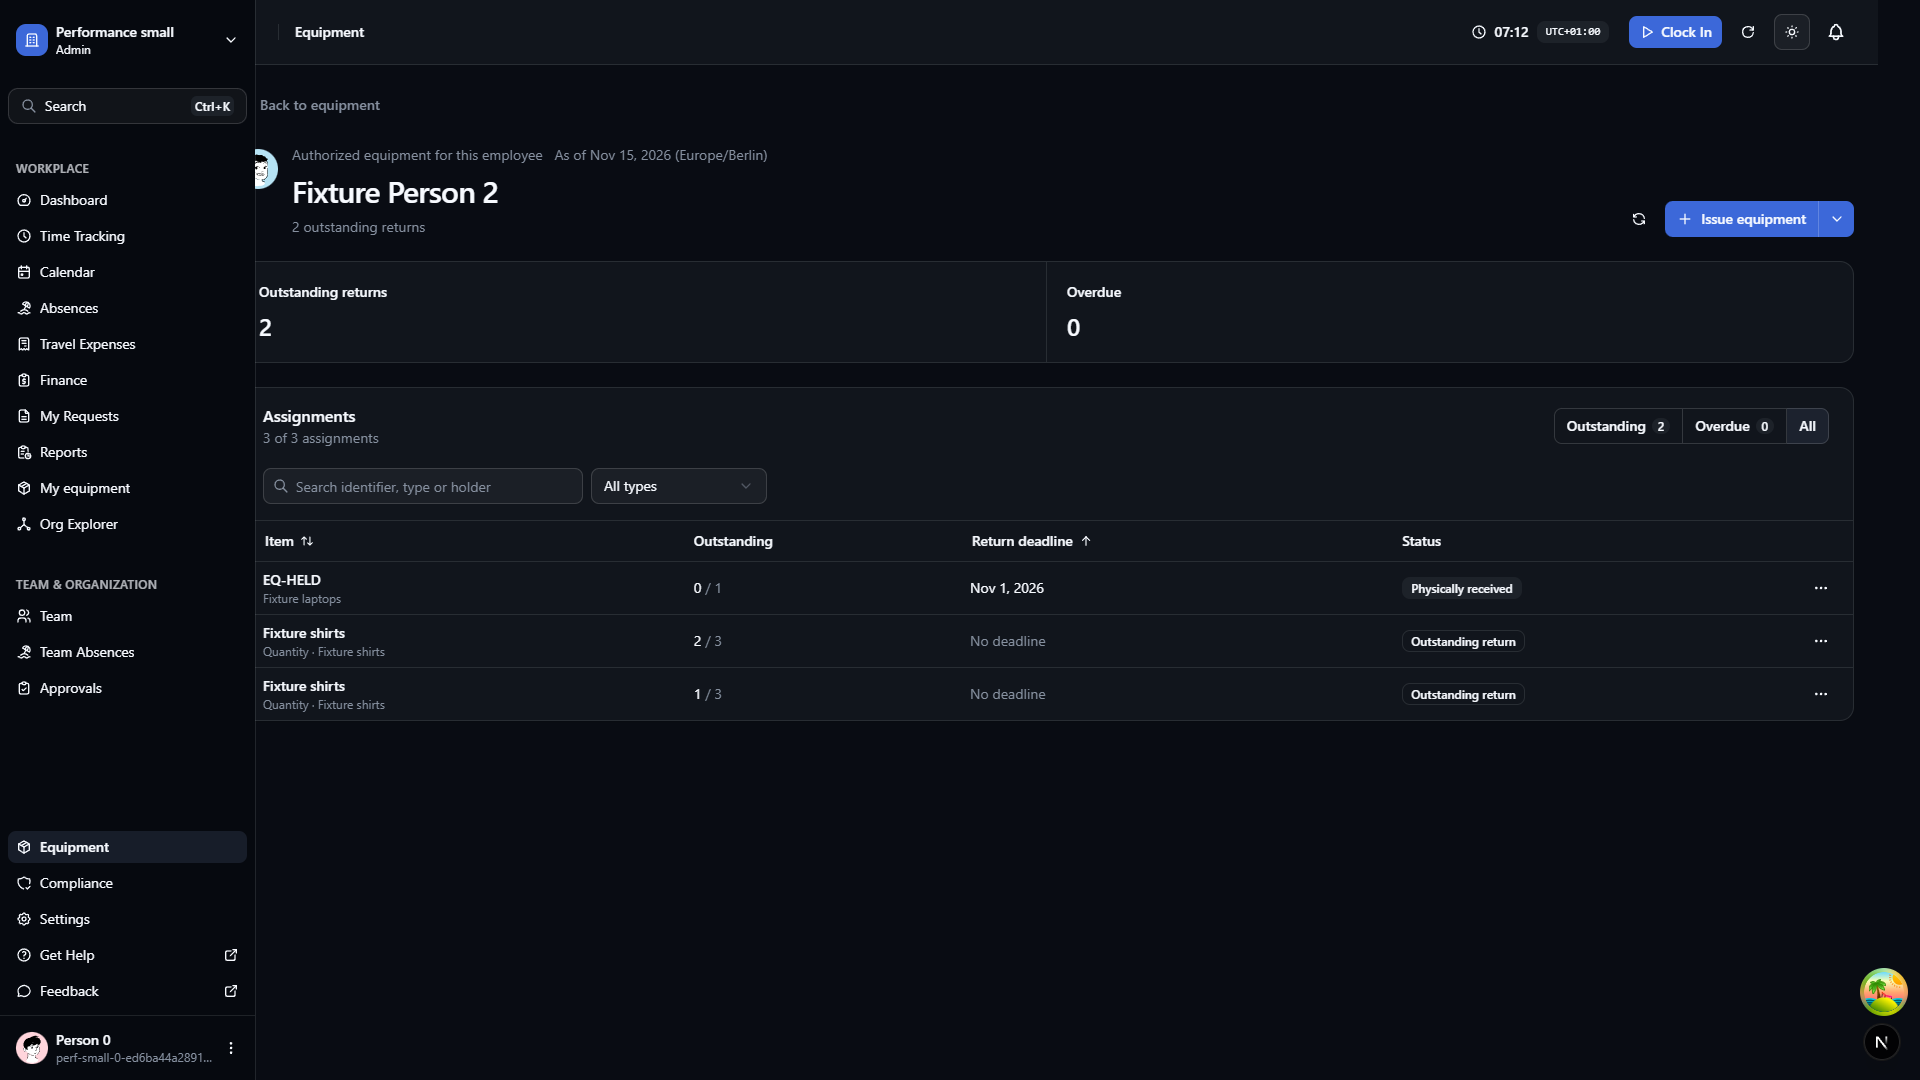
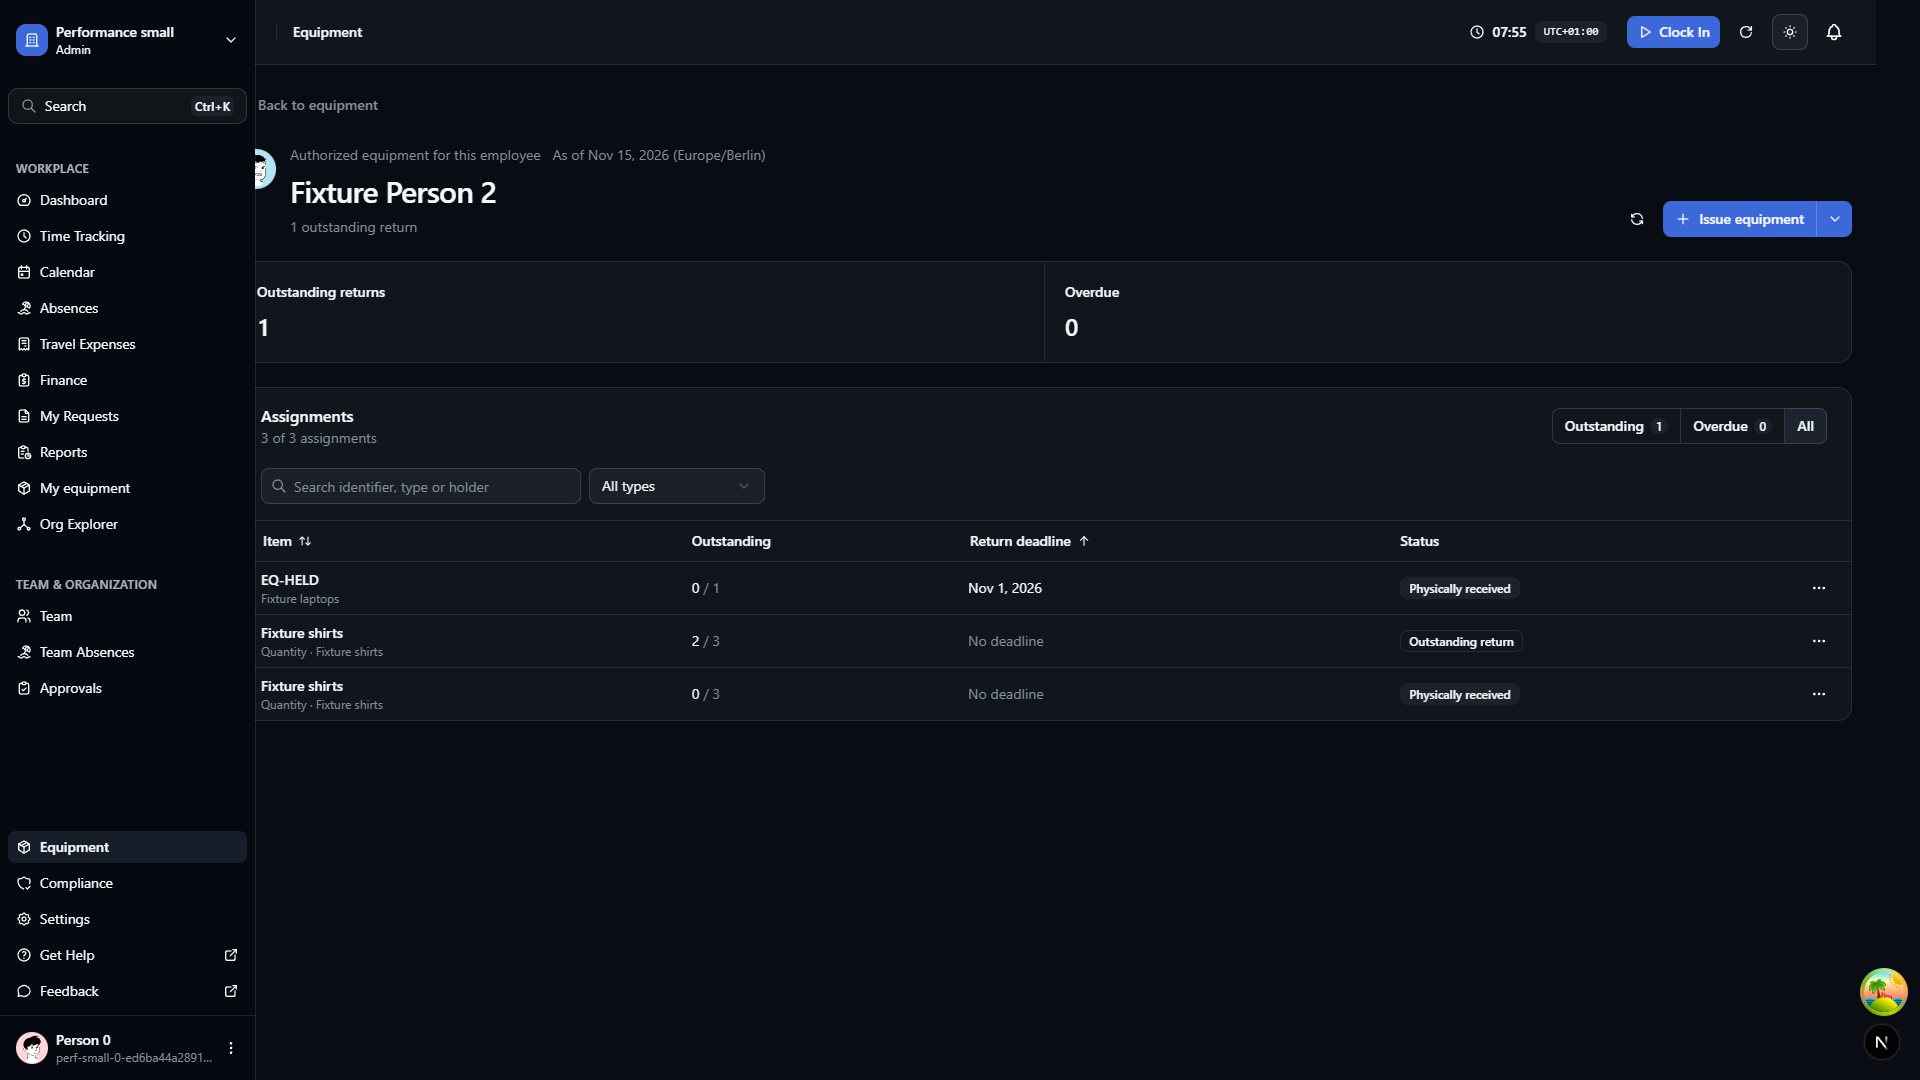
docs(ui): verify merged employee recovery and cleanup (#1719)

diff --git a/docs/design/rollout-1692/1719.md b/docs/design/rollout-1692/1719.md
@@ -96,15 +96,16 @@ protecting domain behavior.
 
 | Check | Actual result and boundary |
 | --- | --- |
-| Combined equipment + licence + shared UI | **34 suites / 271 tests passed**, after final source restoration. Includes employee routes, panels, historical forms, partial returns, exact metadata, PageHeader, toolbar, ActionPanel and Sidebar. Earlier equipment/shared-only run: 15 suites / 153 tests. |
+| Combined equipment + licence + shared UI | **35 suites / 277 tests passed**, after the final resolved integration merge. Includes employee routes, panels, historical forms, partial returns, exact metadata, PageHeader, toolbar, ActionPanel and Sidebar. Earlier recovery-tree run: 34 suites / 271 tests; equipment/shared-only: 15 suites / 153 tests. |
 | PostgreSQL authority owners | **6 suites / 47 tests passed**: quantities 11, readiness 9, historical 12, officers 8, feature switch 1, assignment read 6. Fresh against this label-owned migrated fixture; production domain owners are unchanged. Same integration setup/gate as standard launcher, through the R019 Windows adapter. |
 | Full types | `pnpm --filter webapp typecheck` passed after final capture source restoration: Next route types, application, workflow contracts and smoke. |
-| Scoped Biome | Eight final TS/TSX files passed: six LF consumer/test files and two existing CRLF metadata files; no fixes in final check. |
+| Scoped Biome | Eight final TS/TSX files passed: five LF consumers/tests and three CRLF merged workspace/metadata files; no fixes in final check. |
 | React Doctor | Final eight-file changed-source scan: **zero diagnostics**, local installed 0.9.22 with no score/upload/supply-chain scan. |
 | Native React and Next | Actual authorized native tree includes EmployeeEquipment, EquipmentEmployeeHeader, PageHeader, EquipmentAssignmentsCard and ActionPanel. [Reviewed native evidence](1719/react-runtime.json). Connected Next compilation issues, config errors and session errors empty: [diagnostics](1719/next-runtime.json). Dev-runtime evidence, no production-build/performance claim. |
 | Actual consumer | **28 successful assertions** across core and continuation in [runtime.json](1719/runtime.json), plus **6 successful preference/layout assertions** in the final standalone passing [preferences.json](1719/preferences.json). The core and initial variant harness runs did not finish the organization-switch step; the separate accepted pointer-switch result is below. No browser exceptions were recorded in these observed checks. |
 | Actual organization switch | [after-switch.json](1719/after-switch.json): pointer activation during an in-flight locked read produced real HTTP **200**, session readback confirmed the target organization, and settled reload **and** direct employee-route re-entry showed Performance large and no previous holding. New organization has equipment off, so its generic notFound is correct. Zero browser exceptions. |
-| Matched evidence/provenance | [comparison.json](1719/comparison.json) pins exact source `49f8d6607eb6af6d2dc922bca0b31ca301ebd9fb`; same admin/holder/org and three post-action assignment records at 1600×1000, 390×844 and 1920×1080 dark. All row values agree; h1 count changes from two to one; document width equals viewport. Exact owned bytes restored in finally. |
+| Matched evidence/provenance | [comparison.json](1719/comparison.json) pins exact recovery-merged source `412b1fcd97b5eae4b5e1ae84b71f9d9ce980d150`; same admin/holder/org and three post-retry assignment records at 1600×1000, 390×844 and 1920×1080 dark. All row values agree; h1 count changes from two to one; document width equals viewport. Exact owned bytes restored in finally. Subsequent licence-route adoption adds its own heading metadata; it changes no equipment consumer source. |
+| Merged current-route recovery | **8 fresh assertions passed** in [retry.json](1719/retry.json): same mounted notes/draft, inline Alert without an error toast, post-hover BUTTON pointer target, one trusted native pointer command, panel closure and persisted receipt readback. |
 
 Matched captures are a **consumer-source comparison**, with the current shared
 shell on both sides, not two separate whole-application deployments. Only employee
@@ -116,7 +117,7 @@ blobs. Later legitimate metadata opt-ins do not invalidate historical evidence.
 
 - Desktop: [before](1719/before-desktop-light.png), [after](1719/after-desktop-light.png).
 - Phone: [before](1719/before-phone-light.png), [after](1719/after-phone-light.png),
-  [complete records after scrolling](1719/after-phone-records.png).
+  [record surface after scrolling](1719/after-phone-records.png).
 - Wide dark: [before](1719/before-wide-dark.png), [after](1719/after-wide-dark.png).
 - Existing TanStack panel: [issuance](1719/after-issue-panel.png),
   [real failed action](1719/after-failed-issue.png),
@@ -131,8 +132,10 @@ persists as `2 / 3`. A former-status fixture variant received the laptop through
 the actual form; readback remained former until the fixture restored the variant,
 and its history remained reachable. That status toggle is synthetic setup, **not**
 a browser claim for the full departure/reactivation lifecycle. Final matched
-records are the received laptop (`0 / 1`), the existing `1 / 3` and new `2 / 3`;
-two outstanding assignments, no overdue assignment. No history was removed.
+records after merged pointer retry are the received laptop (`0 / 1`), the fully
+received original shirts (`0 / 3`) and new partial holding (`2 / 3`); one outstanding
+assignment, no overdue assignment. Earlier mutation screenshots retain their
+actual intermediate values. No history was removed.
 
 Failure testing temporarily renamed only this fixture's command/read table,
 restored it, and retried the unchanged existing form/read. Issuance and receipt
@@ -172,15 +175,31 @@ an organization-switch capture. Correcting the harness to wait on the real `tbod
 DOM produced the final independent six-check passing run. Preference captures use
 the actual bounded viewport; matched before/after capture provenance is separate.
 
-The actual failed-command retry used focus + Enter beneath the existing error
-toast, preserving the reported shared pointer-interception limitation. Toast and
-Next indicator were not hidden. Root's independent shared-feedback investigation
-and inherited transition/keyboard findings are not resolved by this page's clean
-captures. Current-route phone Escape checks only this page with the sampled saved
+The original failed-command retry used focus + Enter beneath the then-existing
+error toast. Those observations remain historical evidence. The root correction
+`6a9189f867c6349961511cd9bc4f4db77f51e9e1` enters only through the integration merge:
+panel failures now use the existing Alert above the footer, while direct item
+commands retain error toasts. This route's fresh [inline failure](1719/after-merged-inline-failure.png)
+and [trusted pointer receipt readback](1719/after-merged-pointer-readback.png)
+verify that inherited correction on the selected employee page. The original
+one-of-three holding is physically settled by that accepted retry; all three
+history records remain. No local workaround or domain change was added.
+
+The **Next development Rendering indicator remains an independent limit** and can
+reappear after hover. The accepted native mouse down/up waits after hover until
+the actual submit button receives the pointer. No toast, indicator or other layer
+was suppressed. Root's [recovery report](1695-equipment-recovery.md) retains separate
+baseline toast and framework-indicator evidence; this does not certify every
+route or erase inherited transition/keyboard findings. Current-route phone Escape checks only this page with the sampled saved
 large/dark preference; it does not certify all shells, routes, roles or font sizes.
 
 Saved dark theme and large/18px font, Ctrl+B collapse after reload, 390px phone,
 22.5px text/reduced motion, and 800×500/deviceScaleFactor2 fit were observed.
+An additional [long structured-name check](1719/long-name.json) fits an unbroken
+240-character employee identity at 390px and 1600px with 22.5px text; the original
+first name, last name and fallback name are restored exactly. The first harness
+attempt changed only the fallback name, which the existing structured-name owner
+correctly ignored; the corrected fixture variant passed without a UI change.
 The last is a **zoom equivalent**, not native 200% browser zoom or a physical device.
 Full production/static generation, global catalog checks, all translated locales,
 remote Tolgee publication, providers/external delivery, true devices/zoom,
@@ -201,6 +220,25 @@ other report was altered to rewrite historical evidence.
 Implementation commits: `da88ce4ea809791567e35034636eea6b035d6fcd`, then
 `49f8d6607eb6af6d2dc922bca0b31ca301ebd9fb` isolates employee loading ownership.
 Latest LOCAL integration merge/check and final cleanup are recorded in quality.
+The first recovery merge is `412b1fcd97b5eae4b5e1ae84b71f9d9ce980d150` (includes
+`ce99de60742d7fdbbaeaaefcdfa555fd7be6e784`). Integration advanced during final checks
+to `b42187081b43ec85e1a15a53bec9064e6f2da160`, including metadata checkpoint
+`37ce6a963b1103f0b17e436c43311523580863ed` and R018. Merge
+`c5b0626f805b14988042da5851310d5dfa98a3c2` preserves both complete employee-equipment
+and employee-licence heading opt-ins/tests. The first command batch continued
+after that additive conflict, so its parse-marker test/type/lint failures are
+recorded and are not acceptance evidence. All relevant checks were rerun after
+resolution, producing the final 35-suite/277-test result above. Final full types,
+Biome and Doctor also passed on that resolved tree. PostgreSQL owners are
+unchanged; their fresh 47-test run precedes these UI-only merges and is not claimed
+as a second postmerge run.
+Final observed LOCAL checkpoint `eec17c6b3a9442866b54bf64345ef7818ecf0dfb`
+(includes R018 verification `be4a3fd5d389c26aa2a5d4dbe300f9f20fb10741`) was consumed in
+`886e8a2e8c553062aab73dedb31b36d15872436b`. This final checkpoint changes only
+other-ticket documentation/evidence and root metadata; application sources are
+identical to the freshly checked resolved merge. Root's separate 140-suite/1053-test
+evidence is inherited and is not counted as this ticket's fresh run. No #1718
+assignment-detail implementation was inspected or changed.
 All issues stay OPEN pending user review; no push, child PR, dev merge or deploy.
 Only this ticket's report/artifacts were authored. Ledger/README/other reports
 remain root-owned.
@@ -212,3 +250,16 @@ copied locally and corrected to await log `open` before Node26 spawn. No ambient
 `.env`, Phase/customer/provider credentials, external user session, trigger bypass,
 `.next` movement or fabricated success was used. Fixture manifests/auth/logs and
 raw React/MCP trees stay ignored/private. Cleanup evidence follows in quality.
+The final browser probe initially hit a CLI daemon EOF and blank session. A named
+session snapshot confirmed the blank state; reopening the same owned session
+restored the real authorized page. Fresh native-tree inspection and connected
+Next probes then passed. No application workaround or success response was added.
+
+Cleanup completed: checkout-scoped agent-browser closed; manifest and actual
+command verified for owned Next PID **44040**, then its process tree stopped;
+the fixture guard removed exactly three label-owned containers. Independent
+Docker readback confirms all three absent, and localhost:59056 rejects connections.
+All Puppeteer contexts close in their harness finally blocks. Private ignored
+manifests/logs remain local. Ticket #1719 was reread as **OPEN**, still assigned to
+KaiSoellch. The final working tree contains only committed ticket work and inherited
+integration merges.
